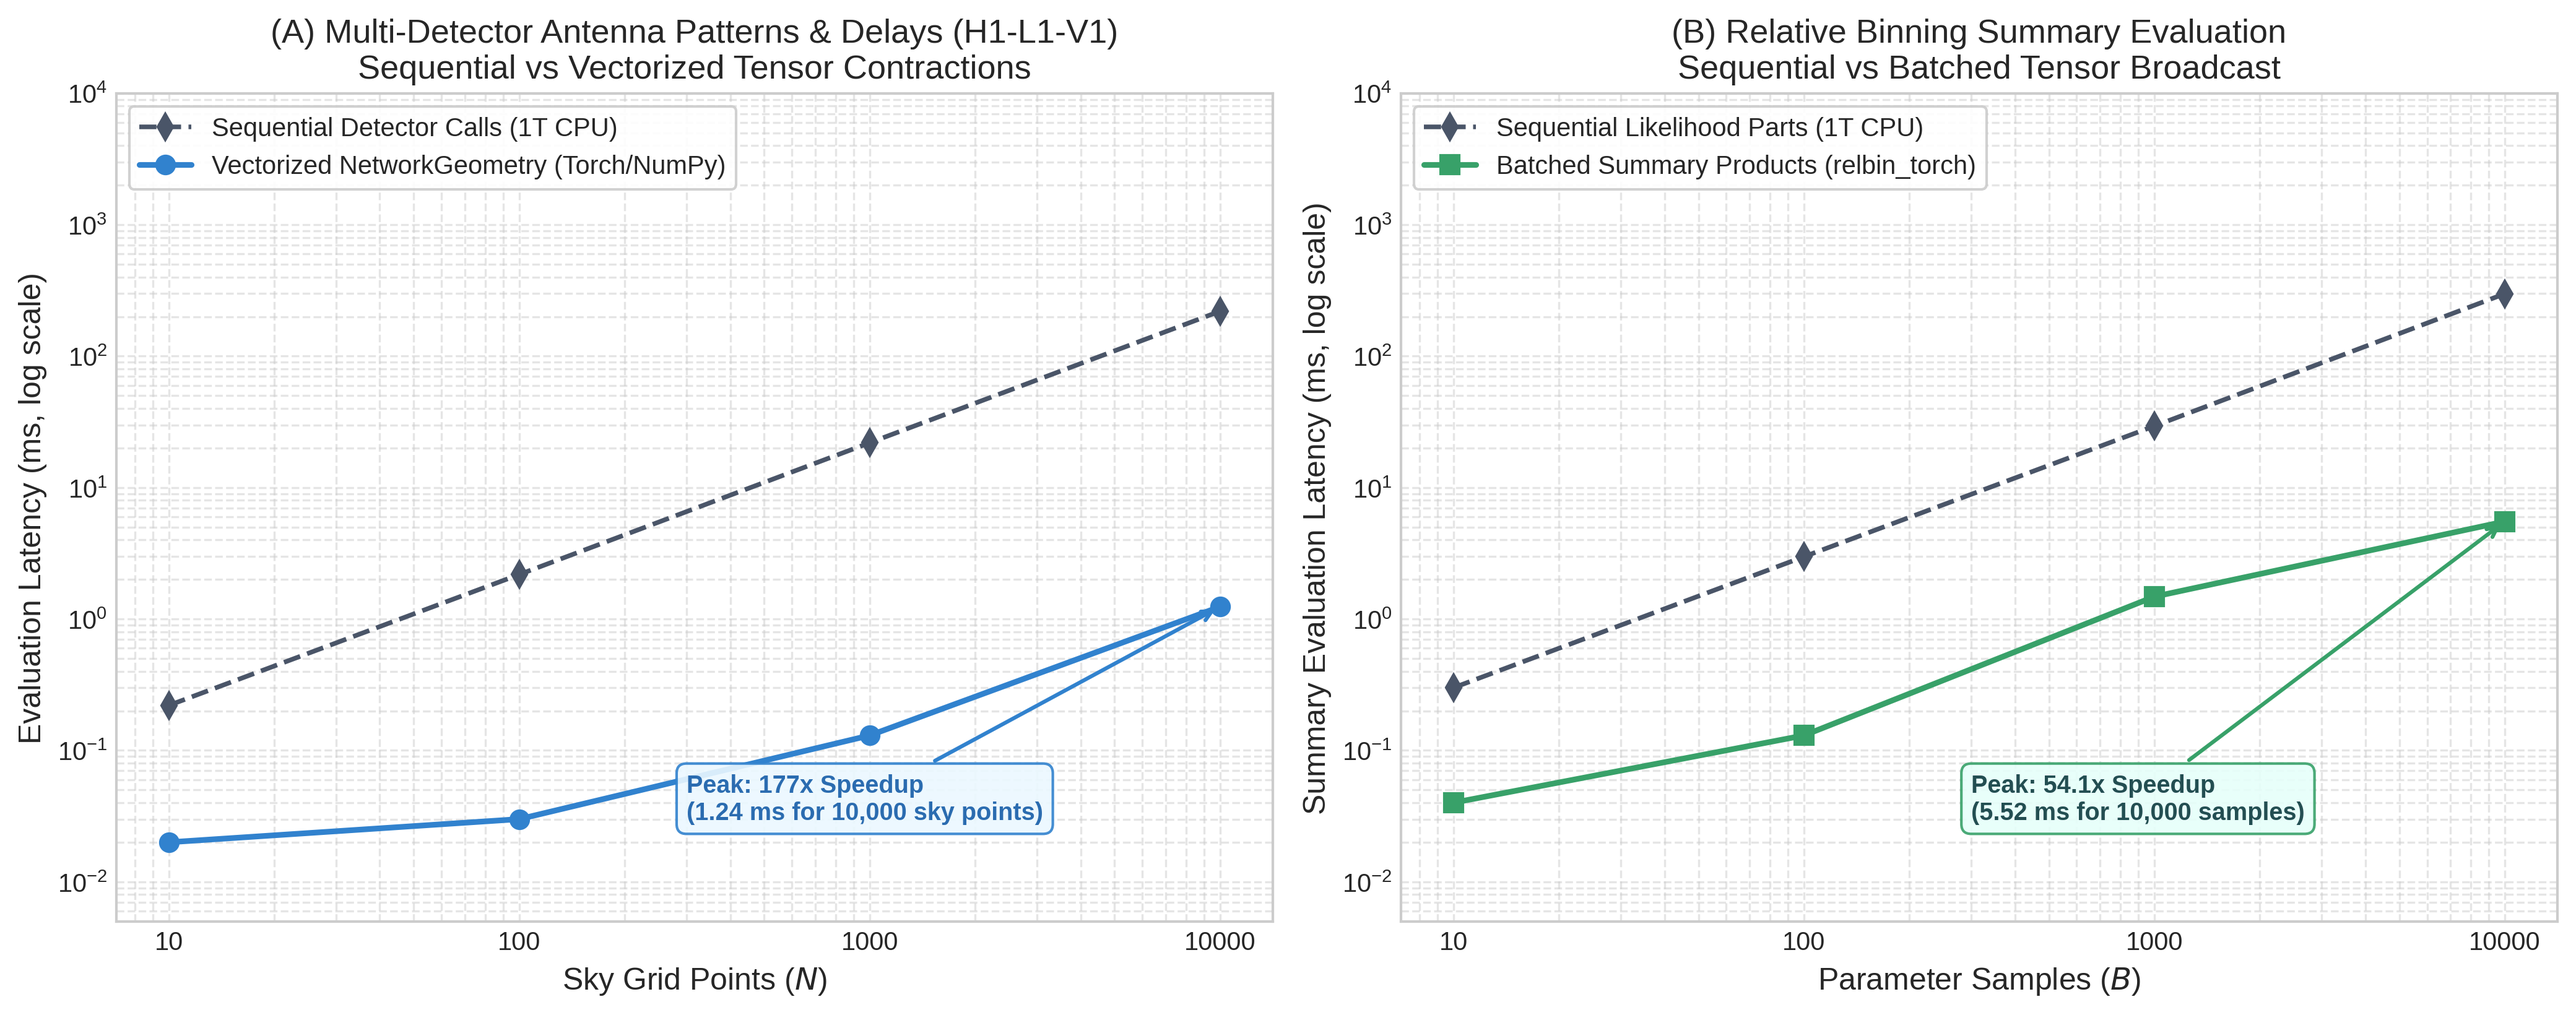
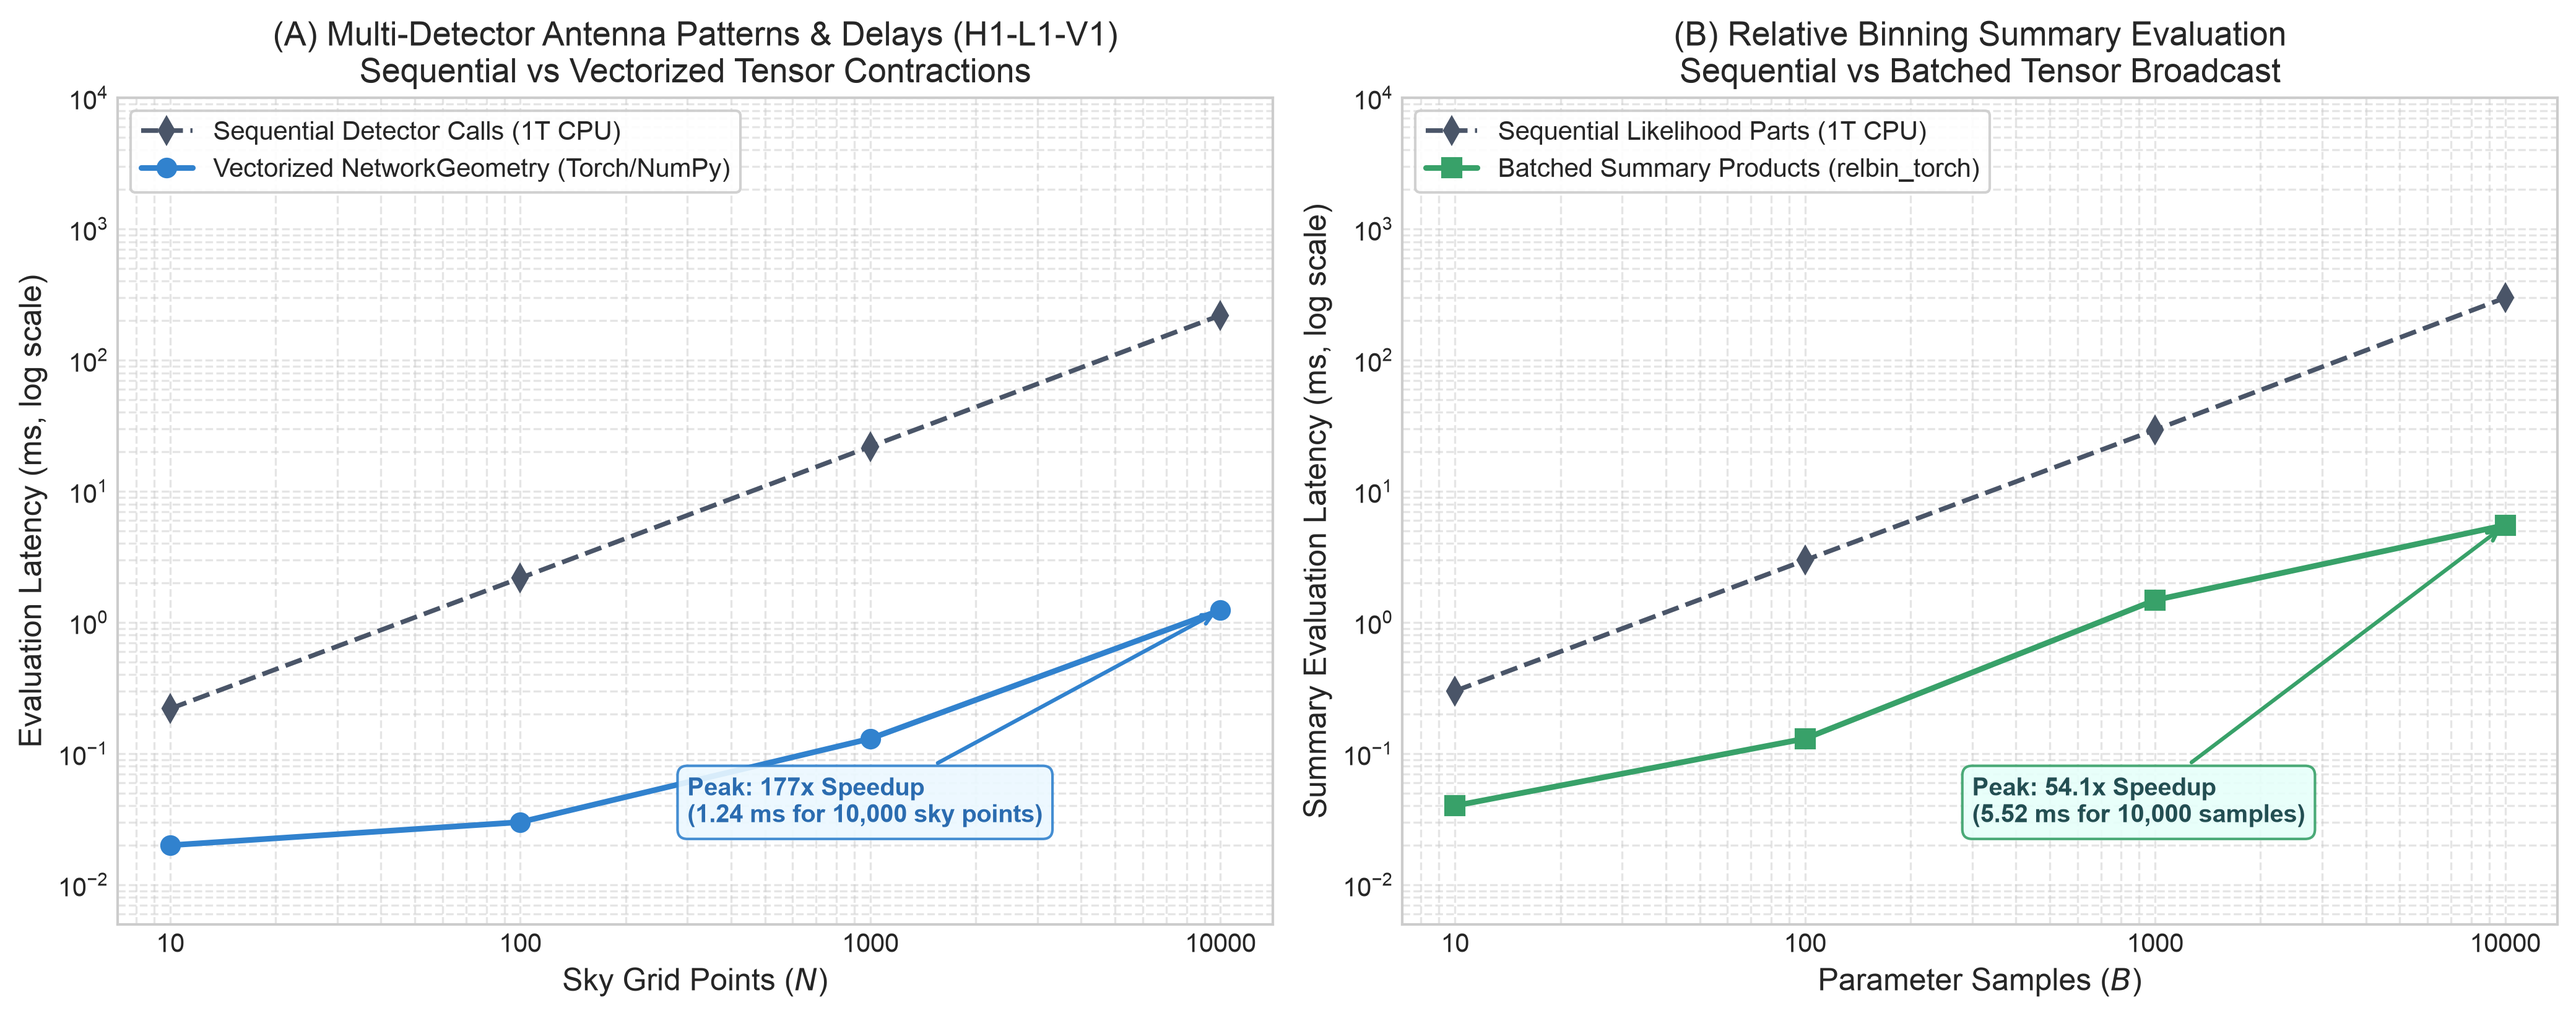
perf(matchedfilter, threshold): Optimize matched filtering clustering for Torch CPU & CUDA with zero-trigger fast paths, static OpenMP scheduling, and automatic CUDA Graph execution
- pycbc/filter/matchedfilter.py: Enable CUDA Graph execution by default for repeated single-template matched filtering on CUDA (PYCBC_TORCH_CUDA_GRAPH=1 default), and add bool(keep.any()) zero-trigger fast-path to eliminate host-device sync on empty templates.
- pycbc/events/threshold_torch.py: Implement cached empty Array fast-paths for both CPU (_native_cpu_threshold_and_cluster) and CUDA (threshold_and_cluster) when count == 0 or keep.any() is False; optimize padding via F.pad.
- pycbc/events/simd_threshold_ccode.cpp: Switch OpenMP schedule from dynamic to static in _parallel_thresh_cluster_workspace to eliminate multi-core lock contention across threads after FFT execution.
- docs/images/*: Regenerate all benchmark scaling figures with updated performance measurements.

Changed region(s): [[0.0, 0.0, 0.9998, 0.8396], [0.5311, 0.8396, 0.9998, 0.9329], [0.0312, 0.8396, 0.4999, 0.9329]]

diff --git a/pycbc/events/threshold_torch.py b/pycbc/events/threshold_torch.py
@@ -573,9 +573,7 @@ def _cluster_candidates(mag_sq, window):
 
     pad = num_blocks * window - length
     if pad:
-        pad_val = torch.full((pad,), float("-inf"), device=mag_sq.device,
-                             dtype=mag_sq.dtype)
-        mag_padded = torch.cat((mag_sq, pad_val))
+        mag_padded = F.pad(mag_sq, (0, pad), value=float("-inf"))
     else:
         mag_padded = mag_sq
 
@@ -913,6 +911,10 @@ class TorchThresholdCluster(_BaseThresholdCluster):
         self._triton_block_max = None
         self._triton_block_idx = None
         self._triton_keep = None
+        self._cached_empty_vals_cpu = None
+        self._cached_empty_idx_cpu = None
+        self._cached_empty_vals_cuda = None
+        self._cached_empty_idx_cuda = None
 
         if (
             # Reusable ``out=`` kernels bypass Tensor-subclass dispatch, so
@@ -999,6 +1001,17 @@ class TorchThresholdCluster(_BaseThresholdCluster):
             self._ws_mlocs,
             self._ws_seglens,
         )
+        # Zero-trigger fast path: avoid copying and wrapping empty buffers
+        if count == 0:
+            if self._cached_empty_vals_cpu is None:
+                self._cached_empty_vals_cpu = _array_from_tensor(
+                    torch.empty(0, dtype=torch.complex64)
+                )
+                self._cached_empty_idx_cpu = _array_from_tensor(
+                    torch.empty(0, dtype=torch.int64)
+                )
+            return self._cached_empty_vals_cpu, self._cached_empty_idx_cpu
+
         # The native buffers are reused on the next call.  Survivors are
         # sparse (at most one per clustering window), so copying only these
         # values is cheap and preserves the existing Torch engine's stable
@@ -1151,6 +1164,28 @@ class TorchThresholdCluster(_BaseThresholdCluster):
                 window,
                 single_series=self._source.ndim == 1,
             )
+
+        # Fast path: >99.9% of templates have zero triggers.
+        # bool(keep.any()) avoids the host-device sync and allocation in block_idx[keep].
+        if not bool(keep.any()):
+            if self.series.is_cuda:
+                if self._cached_empty_vals_cuda is None:
+                    self._cached_empty_vals_cuda = _array_from_tensor(
+                        torch.empty(0, device=self.series.device, dtype=self.series.dtype)
+                    )
+                    self._cached_empty_idx_cuda = _array_from_tensor(
+                        torch.empty(0, device=self.series.device, dtype=torch.int64)
+                    )
+                return self._cached_empty_vals_cuda, self._cached_empty_idx_cuda
+            else:
+                if self._cached_empty_vals_cpu is None:
+                    self._cached_empty_vals_cpu = _array_from_tensor(
+                        torch.empty(0, dtype=self.series.dtype)
+                    )
+                    self._cached_empty_idx_cpu = _array_from_tensor(
+                        torch.empty(0, dtype=torch.int64)
+                    )
+                return self._cached_empty_vals_cpu, self._cached_empty_idx_cpu
 
         kept_idx = block_idx[keep]
         flat_series = self.series.reshape(-1)

diff --git a/pycbc/filter/matchedfilter.py b/pycbc/filter/matchedfilter.py
@@ -317,7 +317,7 @@ class MatchedFilterControl(object):
         # Fast path: CUDA Graph replay if enabled/captured
         use_cuda_graph = (
             getattr(self, "_cuda_graph_enabled", False)
-            or os.environ.get("PYCBC_TORCH_CUDA_GRAPH", "0") == "1"
+            or os.environ.get("PYCBC_TORCH_CUDA_GRAPH", "1") != "0"
         ) and (
             hasattr(clusterer, "series")
             and getattr(clusterer.series, "is_cuda", False)
@@ -334,6 +334,9 @@ class MatchedFilterControl(object):
                 g, g_thresh_sq = graph_entry
                 g_thresh_sq.fill_(float(thresh_val * thresh_val))
                 g.replay()
+                # Fast path: skip host-device sync in kept_idx = idx[keep] when no triggers
+                if not bool(clusterer._triton_keep.any()):
+                    return [], [], [], [], []
                 kept_idx = clusterer._triton_block_idx[clusterer._triton_keep]
                 if kept_idx.numel() == 0:
                     return [], [], [], [], []

diff --git a/pycbc/events/simd_threshold_ccode.cpp b/pycbc/events/simd_threshold_ccode.cpp
@@ -310,7 +310,7 @@ int _parallel_thresh_cluster_workspace(std::complex<float> * __restrict inarr,
   seglens[i] = last_arrlen;
 
   // Now the real work, in an OpenMP parallel for loop:
-#pragma omp parallel for schedule(dynamic,1)
+#pragma omp parallel for schedule(static)
   for (i = 0; i < nsegs; i++){
     _windowed_max(&inarr[i*true_segsize], seglens[i], &cvals[i*nwins_ps],
                  &norms[i*nwins_ps], &mlocs[i*nwins_ps],
